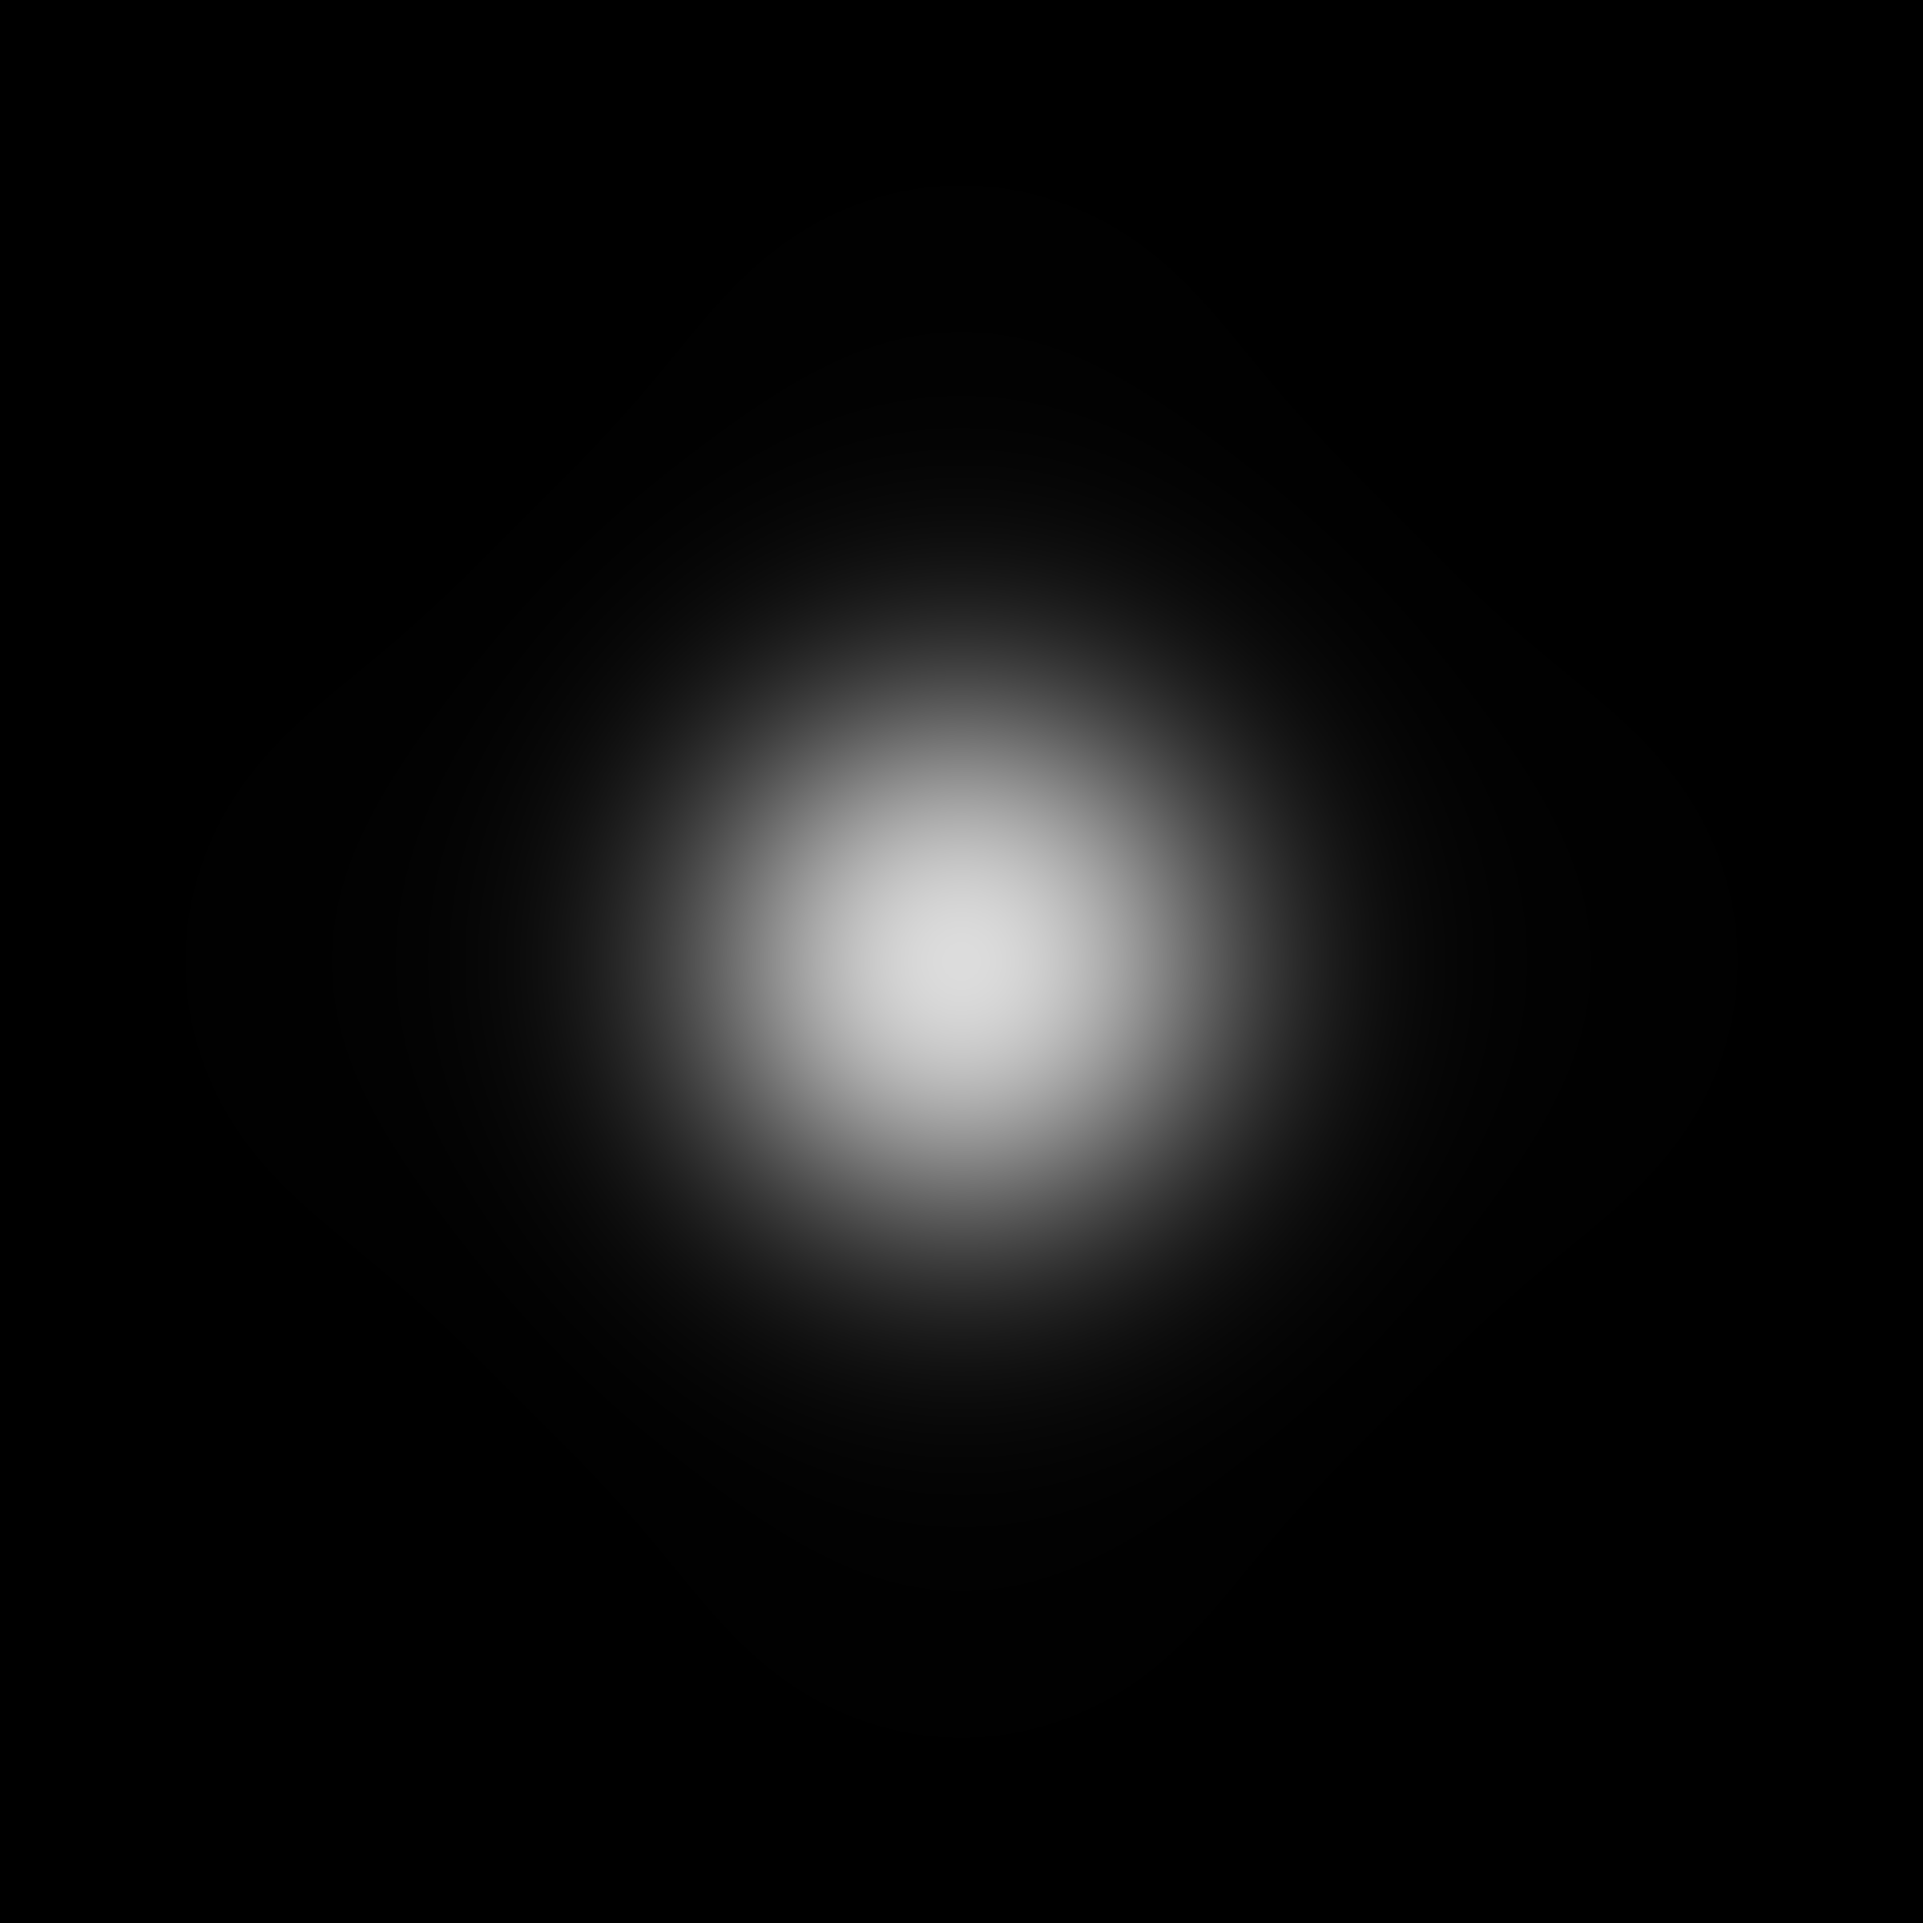
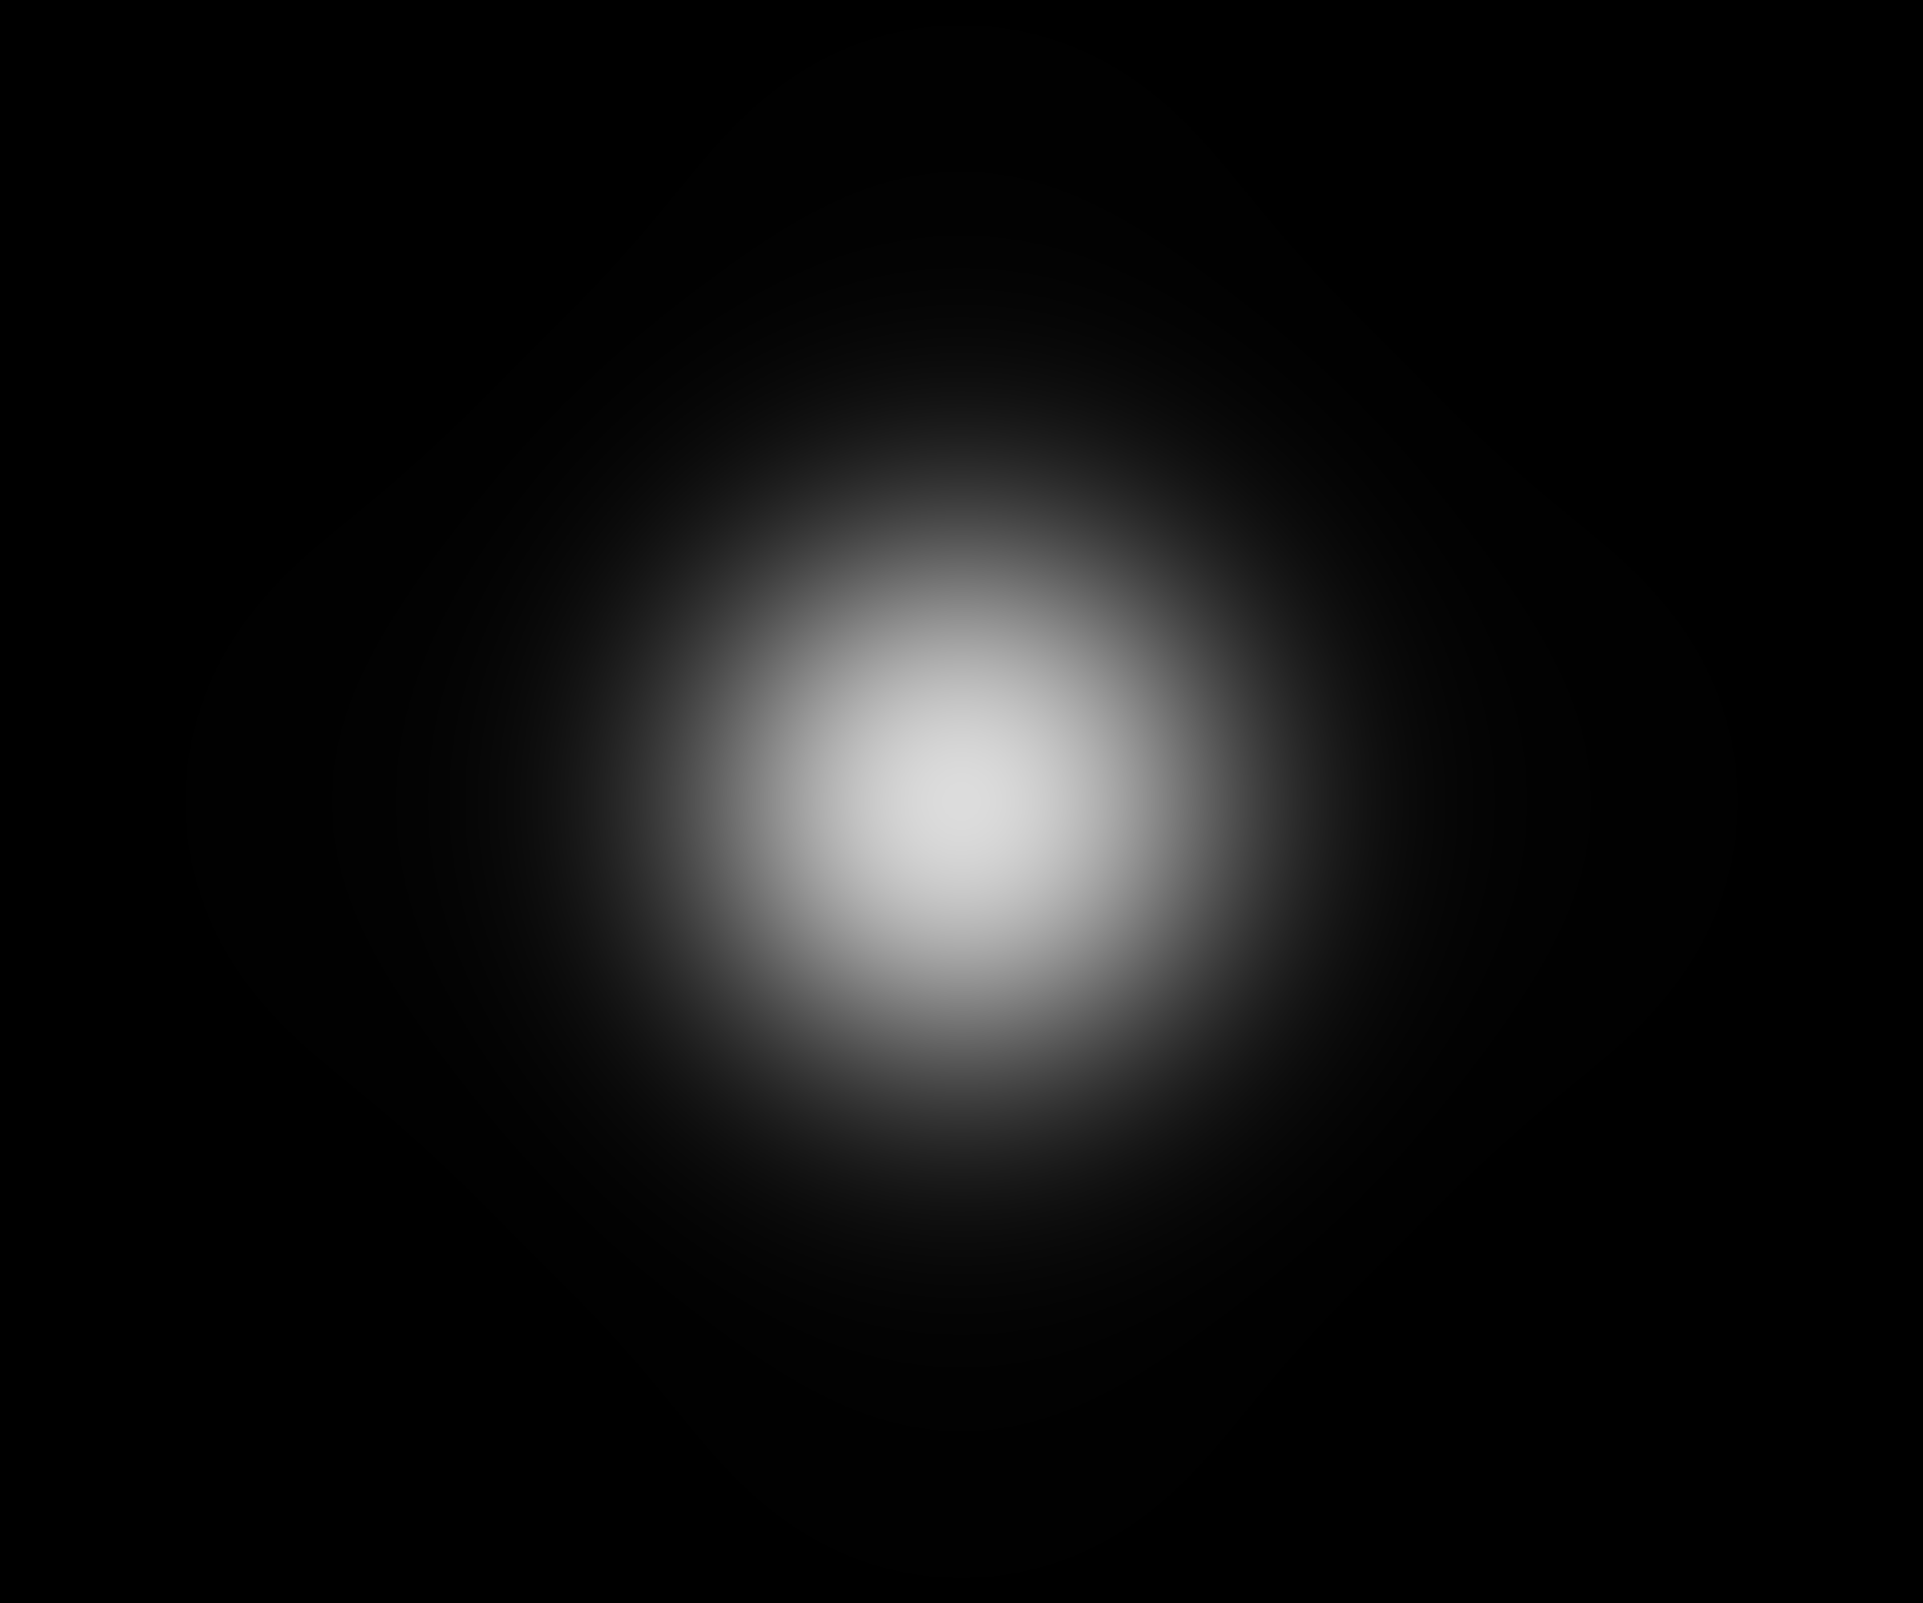
added 0 lanter + optimized it more by making it 2400x2000 not 2400x2400

Changed region(s): [[0.4062, 0.589, 0.5938, 0.713], [0.4062, 0.279, 0.5938, 0.403]]

diff --git a/app/display.py b/app/display.py
@@ -100,7 +100,7 @@ class game_display(basic_display):
 
         self.player = player.Player(self)
 
-        self.fog_of_storms = [custom_images.Custom_image(self, f'img/{x}.png', self.player.x, self.player.y, 2400, 2400, append=False, loaded=False) for x in range(1, 6)]
+        self.fog_of_storms = [custom_images.Custom_image(self, f'img/{x}.png', self.player.x, self.player.y, 2400, 2400, append=False, loaded=False) for x in range(0, 6)]
         self.enemies = []
         self.coins = []
         self.coin = coin.Coin(self)
@@ -211,11 +211,11 @@ class game_display(basic_display):
             obj.render()
         # pygame.draw.rect(self.screen, (0, 0, 0), self.rect)
         if self.fog:
-            if self.fog_of_storms[self.player.lanterns - 1].loaded != True:
-                self.fog_of_storms[self.player.lanterns - 1].load()
-                self.fog_of_storms[self.player.lanterns - 1].loaded = True
-            self.fog_of_storms[self.player.lanterns - 1].update_rect()
-            self.fog_of_storms[self.player.lanterns - 1].render()
+            if self.fog_of_storms[self.player.lanterns].loaded != True:
+                self.fog_of_storms[self.player.lanterns].load()
+                self.fog_of_storms[self.player.lanterns].loaded = True
+            self.fog_of_storms[self.player.lanterns].update_rect()
+            self.fog_of_storms[self.player.lanterns].render()
 
         pygame.draw.rect(self.game.screen, (26, 26, 26), (20, 840, self.game.width - 40, 140), border_radius=5)
         pygame.draw.rect(self.game.screen, (40, 40, 40), (30, 850, 150, 120), border_radius=5)

diff --git a/app/player.py b/app/player.py
@@ -32,7 +32,7 @@ class Player:
         self.green = (30, 200, 30)
         self.money = 0
         self.windCap = self.windStrength * 6
-        self.lanterns = 1
+        self.lanterns = 0
         self.lanternPrice = 20
 
 
@@ -331,8 +331,8 @@ class Player:
 
     def update_rect(self):
         self.rect = pygame.Rect(self.x - self.radius, self.y - self.radius, 2 * self.radius, 2 * self.radius)
-        self.display.fog_of_storms[self.lanterns - 1].x = self.x
-        self.display.fog_of_storms[self.lanterns - 1].y = self.y
+        self.display.fog_of_storms[self.lanterns].x = self.x
+        self.display.fog_of_storms[self.lanterns].y = self.y
 
 def getPhase(fase):
     global direction

diff --git a/app/config.py b/app/config.py
@@ -5,7 +5,7 @@ import os
 def set_config():  # Function that will create the config file or update it if it's out of date
     config = ConfigParser()
     config_file = 'config.ini'  # Path to config file
-    version = '0.19.1'  # Current version
+    version = '0.19.2'  # Current version
 
     if not os.path.exists(config_file):  # Checks if configuration file exists
 
